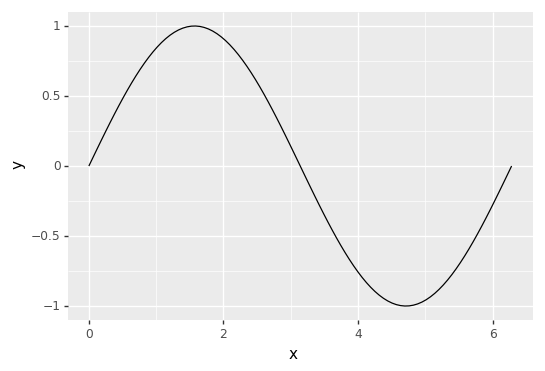
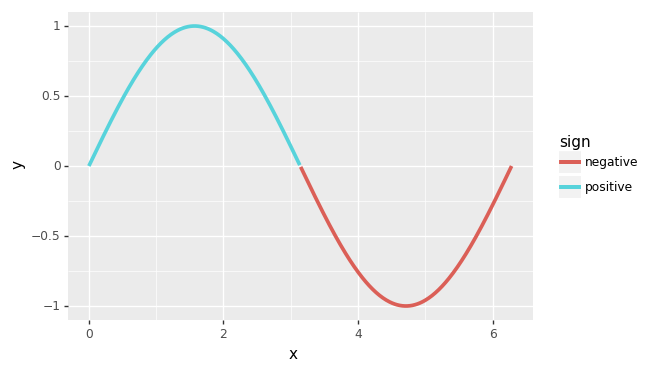
Change readme image example

diff --git a/doc/images/readme_images.py b/doc/images/readme_images.py
@@ -1,11 +1,16 @@
 import pandas as pd
 import numpy as np
 from plotnine import ggplot, aes, geom_line
-from plydata import define
+from plydata import define, define_where
 
 kwargs = dict(width=6, height=4)
 
-df = pd.DataFrame({'x': np.linspace(0, 2*np.pi, 100)})
+df = pd.DataFrame({'x': np.linspace(0, 2*np.pi, 500)})
 
-p = df >> define(y='np.sin(x)') >> ggplot(aes('x', 'y')) + geom_line()
+p = (df
+     >> define(y='np.sin(x)')
+     >> define_where('y>=0', sign=('"positive"', '"negative"'))
+     >> (ggplot(aes('x', 'y'))
+         + geom_line(aes(color='sign'), size=1.5))
+     )
 p.save('readme-image.png', **kwargs)

diff --git a/README.rst b/README.rst
@@ -44,7 +44,7 @@ Example
 
     import pandas as pd
     import numpy as np
-    from plydata import define, query, modify_where
+    from plydata import define, query, modify_where, define_where
 
     df = pd.DataFrame({
         'x': [0, 1, 2, 3],
@@ -82,8 +82,13 @@ plydata piping works with `plotnine`_.
 
     from plotnine import ggplot, aes, geom_line
 
-    df = pd.DataFrame({'x': np.linspace(0, 2*np.pi, 100)})
-    df >> define(y='np.sin(x)') >> ggplot(aes('x', 'y')) + geom_line()
+    df = pd.DataFrame({'x': np.linspace(0, 2*np.pi, 500)})
+    (df
+     >> define(y='np.sin(x)')
+     >> define_where('y>=0', sign=('"positive"', '"negative"'))
+     >> (ggplot(aes('x', 'y'))
+         + geom_line(aes(color='sign'), size=1.5))
+     )
 
 .. figure:: ./doc/images/readme-image.png
 

diff --git a/doc/index.rst b/doc/index.rst
@@ -55,8 +55,15 @@ plydata piping works with `plotnine`_.
 
     from plotnine import ggplot, aes, geom_line
 
-    df = pd.DataFrame({'x': np.linspace(0, 2*np.pi, 100)})
+    df = pd.DataFrame({'x': np.linspace(0, 2*np.pi, 500)})
     df >> define(y='np.sin(x)') >> ggplot(aes('x', 'y')) + geom_line()
+
+    (df
+     >> define(y='np.sin(x)')
+     >> define_where('y>=0', sign=('"positive"', '"negative"'))
+     >> (ggplot(aes('x', 'y'))
+         + geom_line(aes(color='sign'), size=1.5))
+     )
 
 .. figure:: ./images/readme-image.png
 
